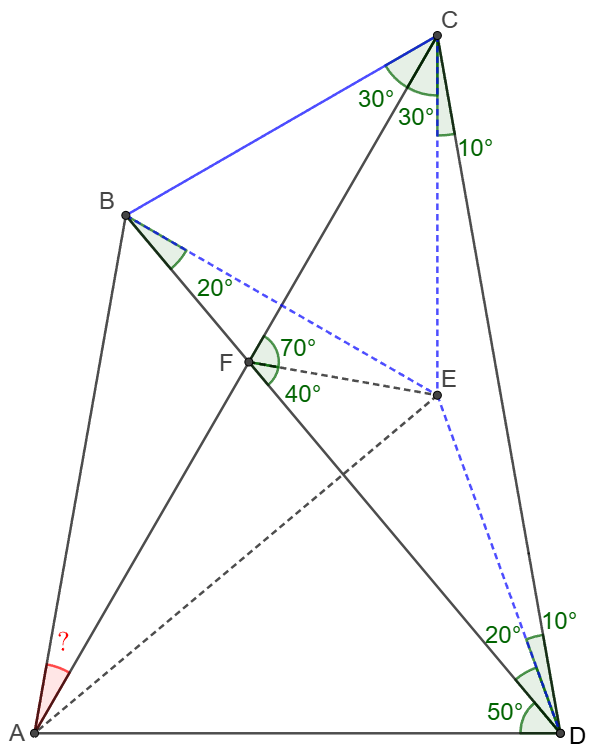
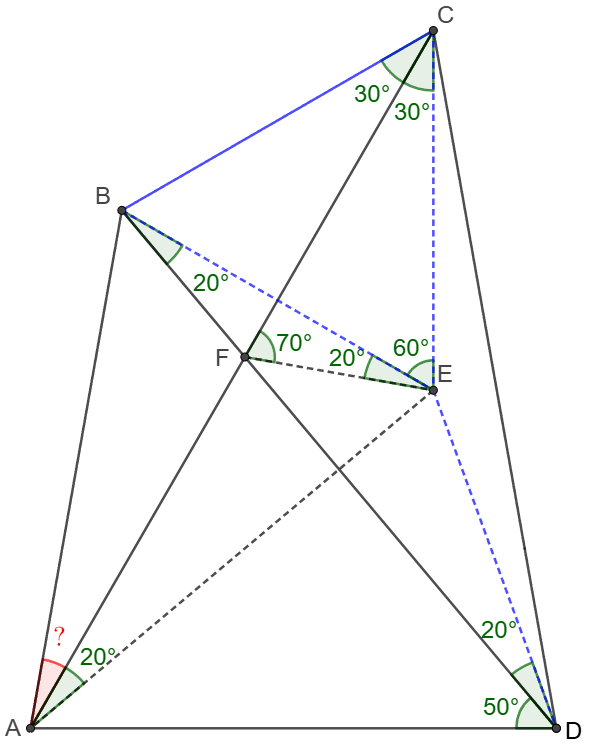
feat: add posts

diff --git a/_posts/2026-05-05-wo.md b/_posts/2026-05-05-wo.md
@@ -12,7 +12,7 @@ tags: []
 
 **Solve:**
 
-![image-20260507195339640](/assets/images/2026/image-20260506102312589.png)
+![image-20260507202015383](/assets/images/2026/image-20260506102312589.png)
 $$
 \begin{multline}
 \shoveleft \text{Let }E \text{ be the circumcenter of }\triangle{BCD}, F=AC\cap BD\\